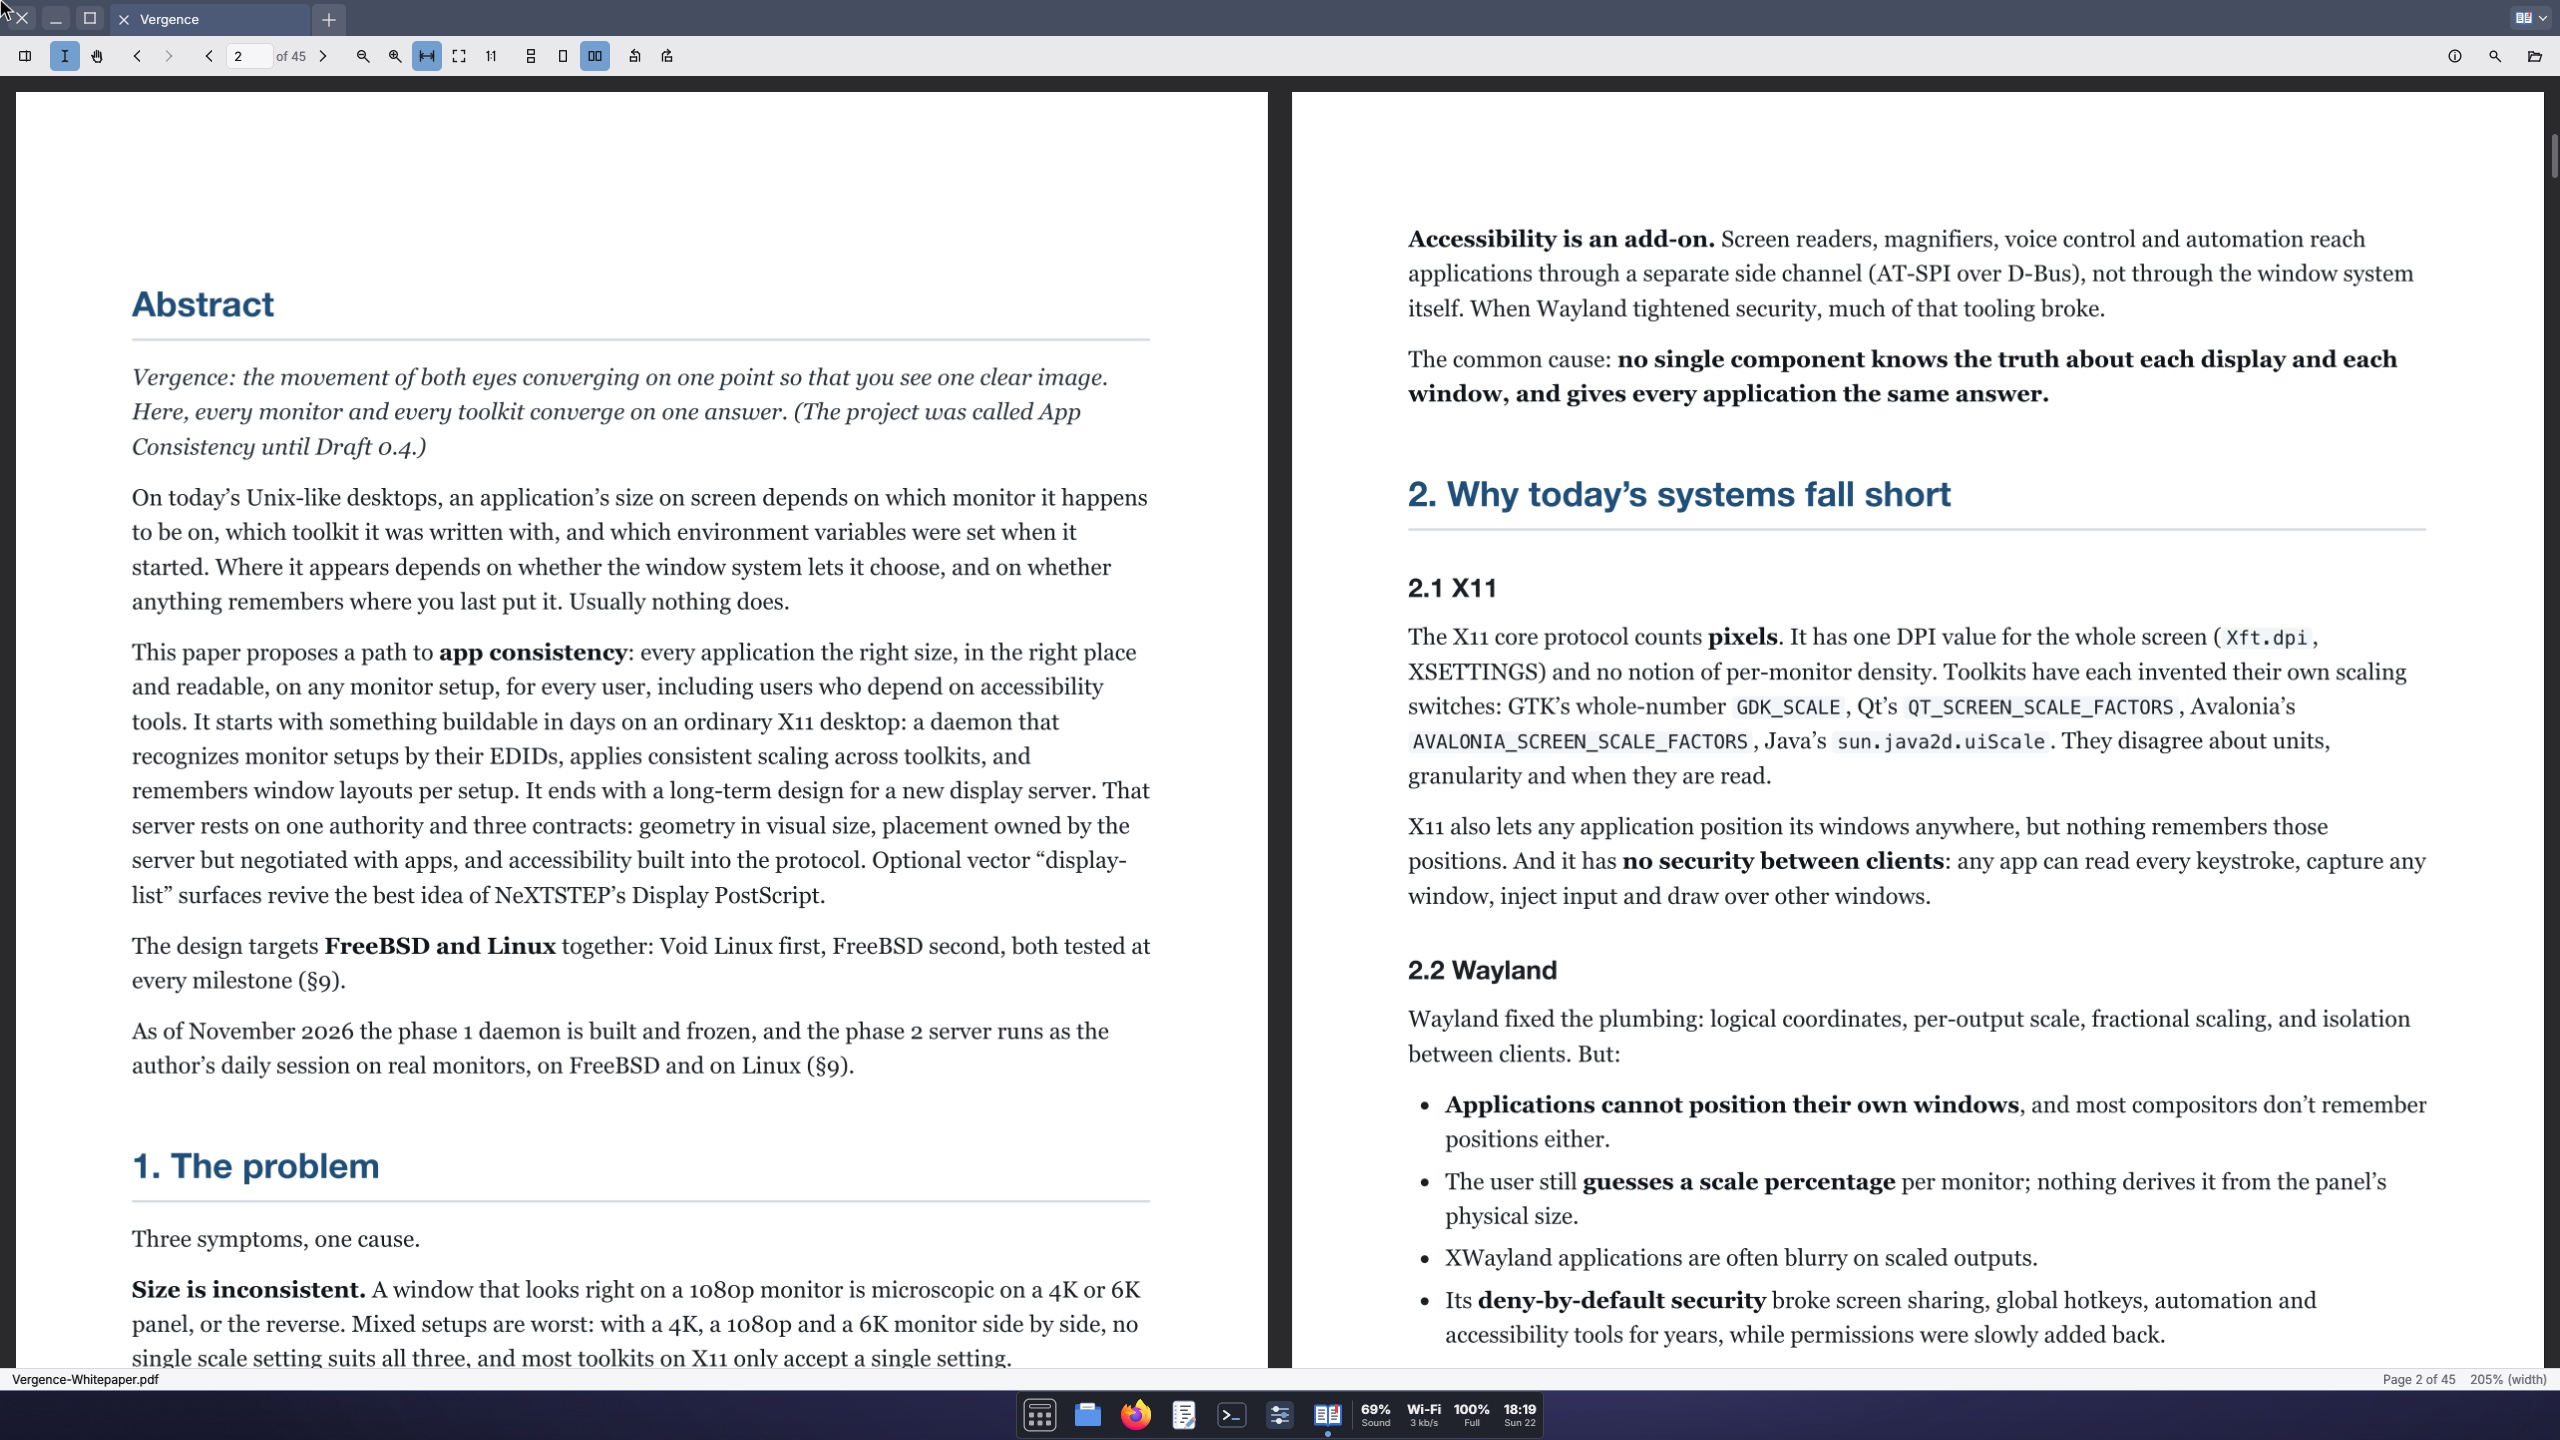
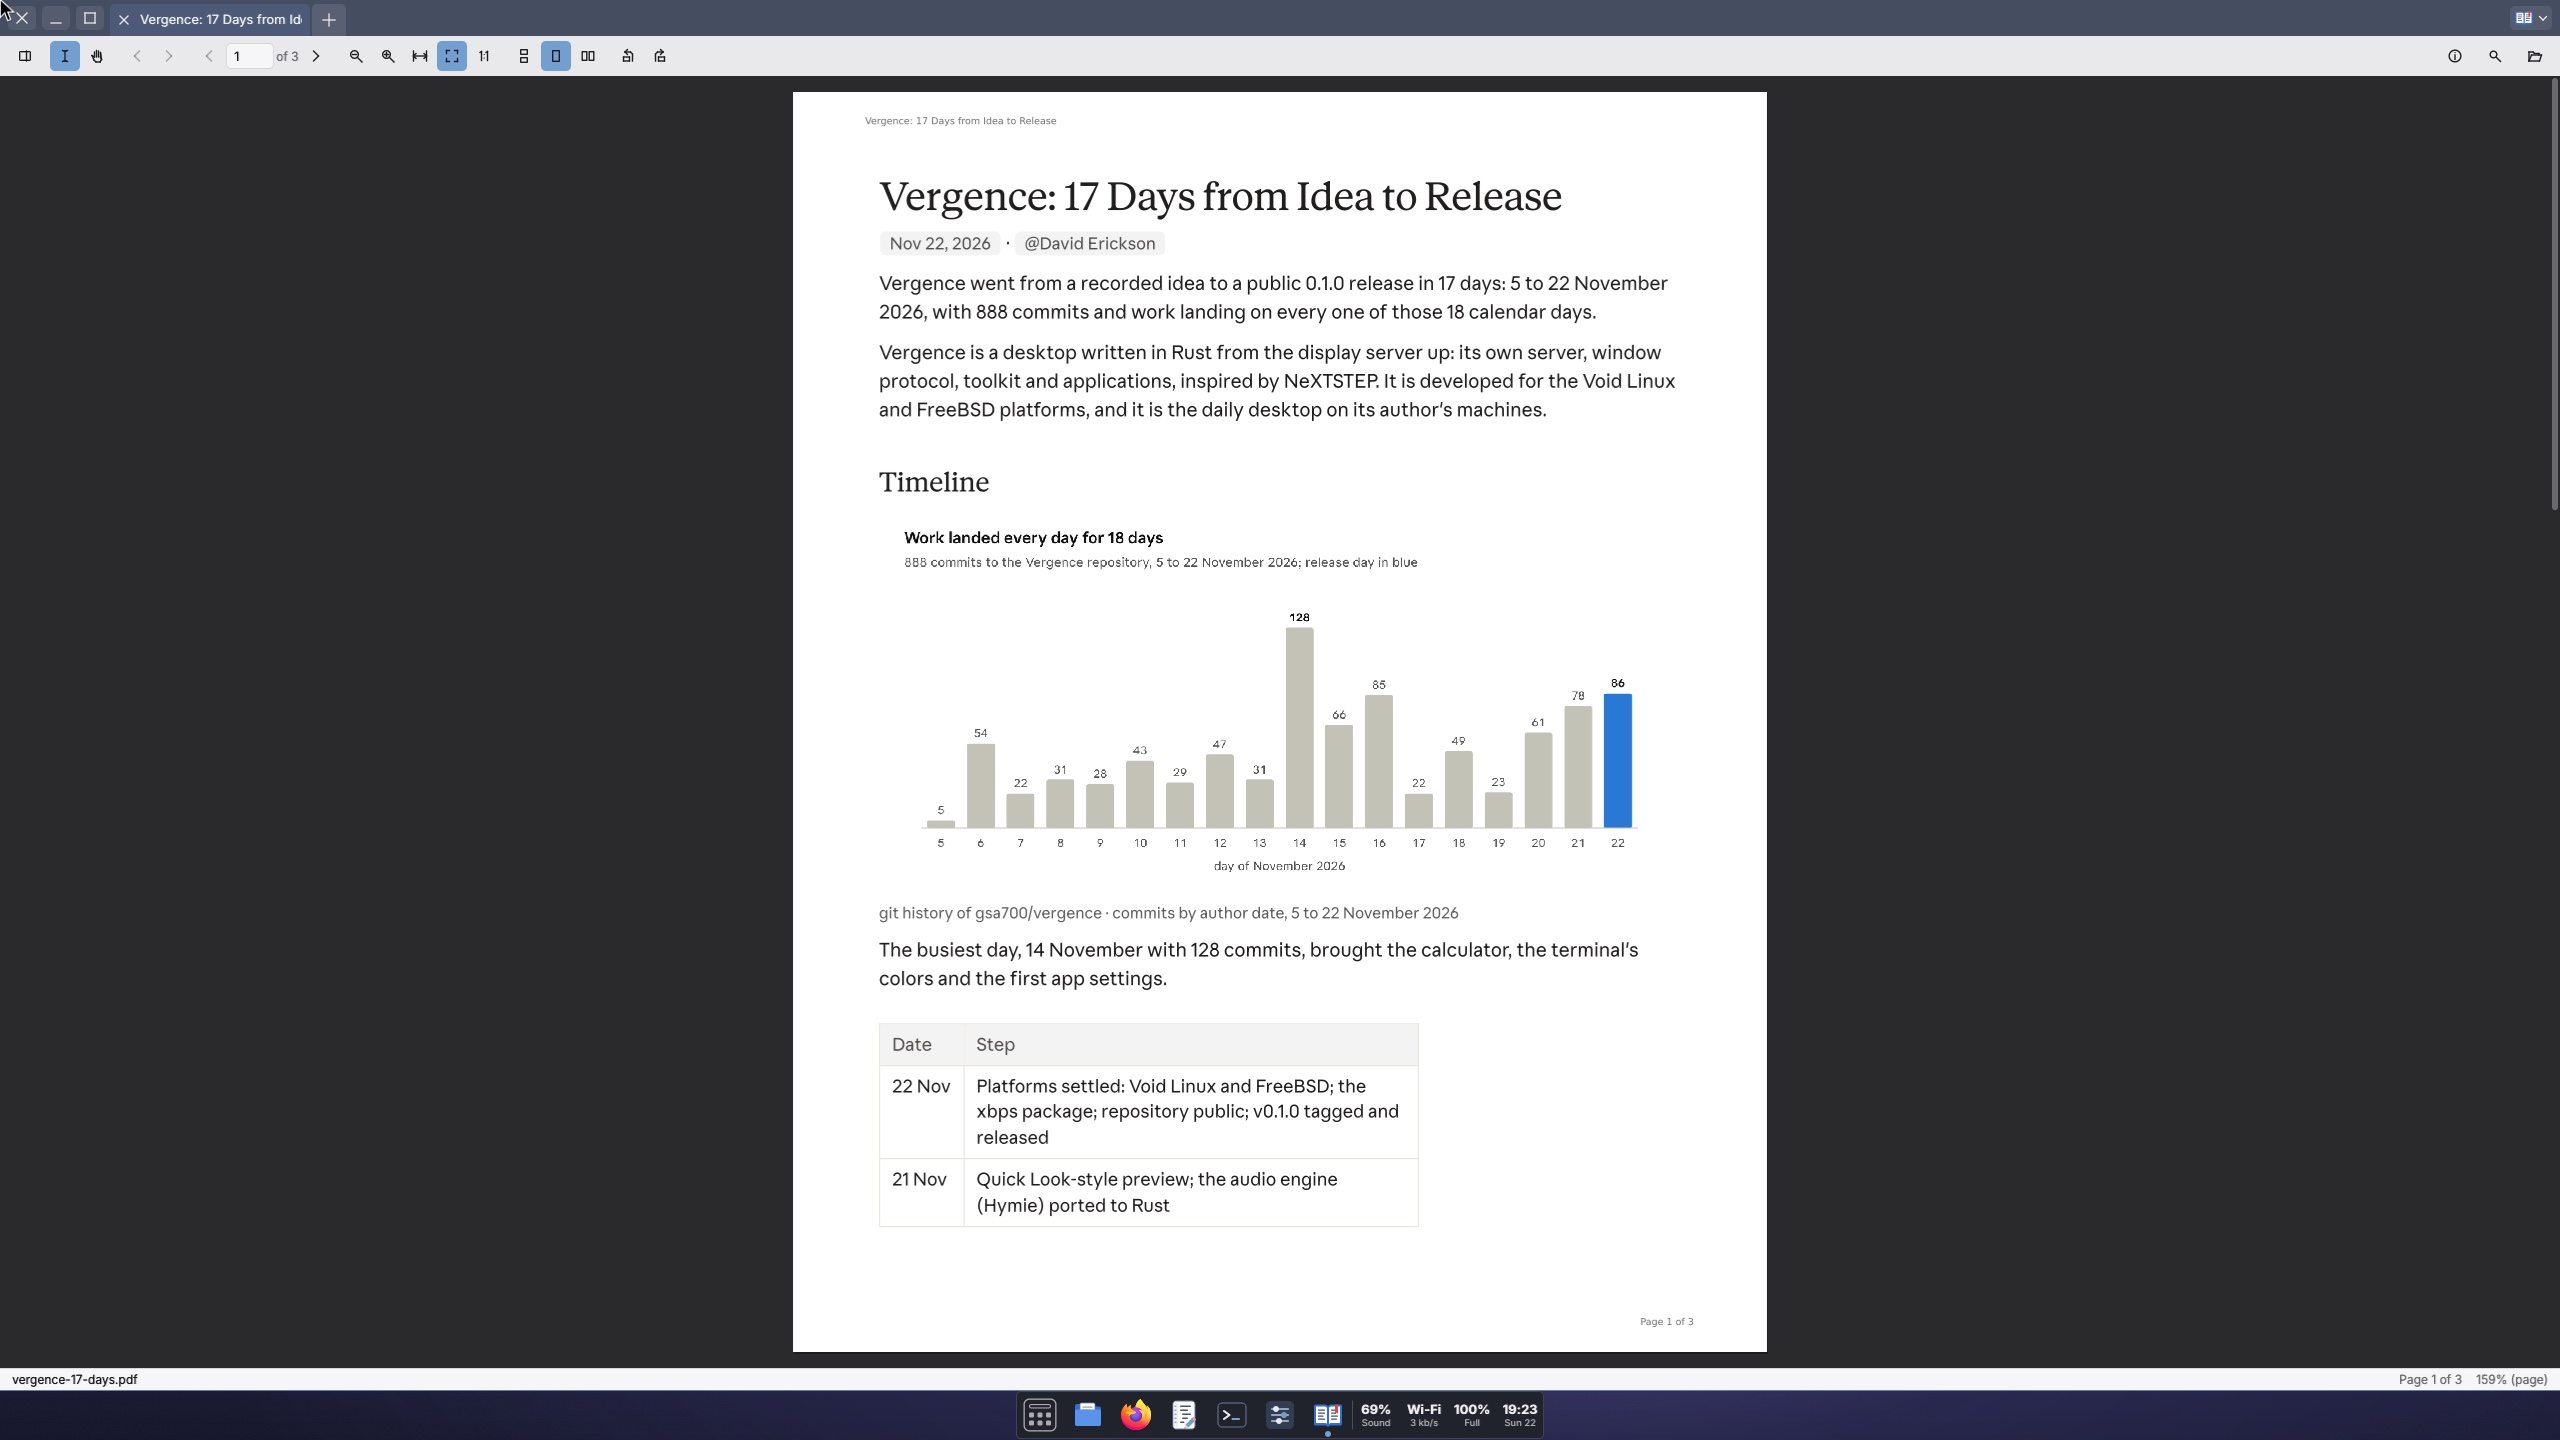
README gallery: Reader on a whole page of the 17-days story (its chart in color) in place of the whitepaper spread

diff --git a/README.md b/README.md
@@ -45,7 +45,7 @@ STATUS.md says what is built and what comes next.
 <td><a href="docs/screenshots/dark-tint.jpg"><img src="docs/screenshots/dark-tint.jpg" alt="Settings and FileView in dark style over the Tide wallpaper, taking on its teal"></a><br>Dark style: windows take on the wallpaper's color.</td>
 </tr>
 <tr>
-<td><a href="docs/screenshots/reader.jpg"><img src="docs/screenshots/reader.jpg" alt="Reader showing two pages of the Vergence whitepaper side by side"></a><br>Reader: a PDF as a book's spread, on its own engine.</td>
+<td><a href="docs/screenshots/reader.jpg"><img src="docs/screenshots/reader.jpg" alt="Reader showing a whole page of a PDF about how Vergence was made, with a chart of commits per day"></a><br>Reader, on its own PDF engine: the story of Vergence's first 17 days.</td>
 <td><a href="docs/screenshots/edit-terminal.jpg"><img src="docs/screenshots/edit-terminal.jpg" alt="Edit with the workspace's Cargo.toml beside Terminal building Vergence"></a><br>Edit beside Terminal, building Vergence itself.</td>
 </tr>
 </table>
